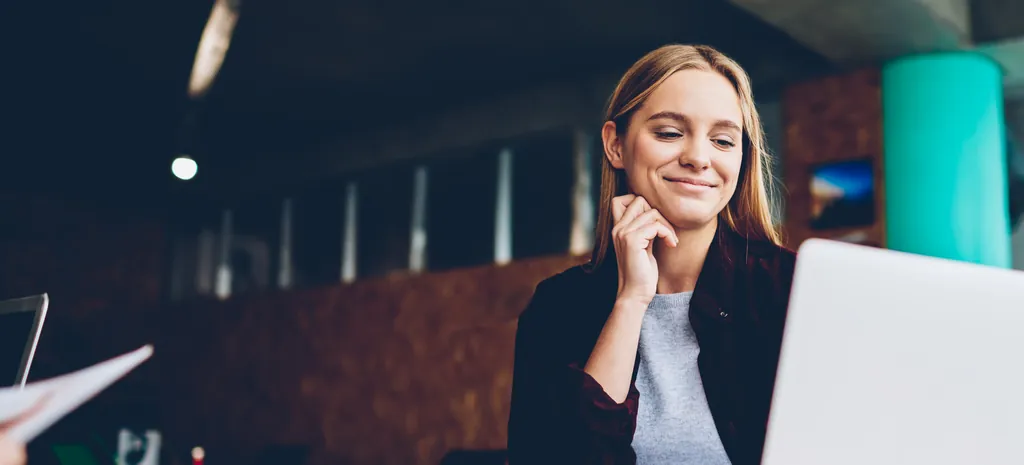
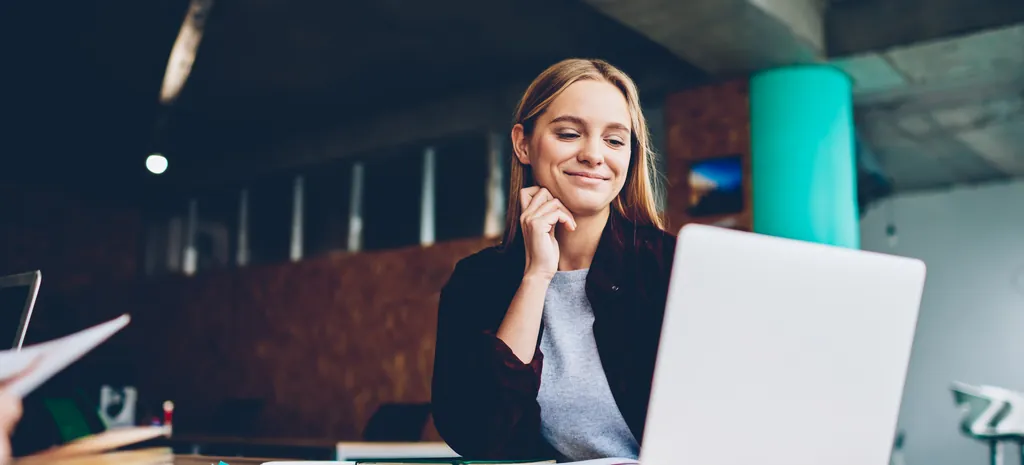
Hero photos: right-hand panel on desktop so faces stay in frame on wide screens
Claude-Session: https://claude.ai/code/session_01GZFNwXkEzX6CcnyMLTwjgb

diff --git a/src/styles/global.css b/src/styles/global.css
@@ -65,3 +65,5 @@ a.card:hover,.card:has(a.stretch:hover){box-shadow:0 8px 22px rgba(29,34,48,.1);
 .hero-bg .wrap{position:relative;z-index:2}
 .hero-bg .copy{max-width:600px}
 @media(max-width:760px){.hero-bg{padding:56px 0 48px}.hero-bg:before{background:rgba(251,250,247,.86)}}
+.hero-bg>img{object-position:center 30%}
+@media(min-width:900px){.hero-bg{background:var(--bg)}.hero-bg .copy{max-width:520px}.hero-bg>img{left:auto;width:58%}.hero-bg:before{background:linear-gradient(90deg,var(--bg) 0%,var(--bg) 48%,rgba(251,250,247,.5) 54%,rgba(251,250,247,0) 64%)}}
